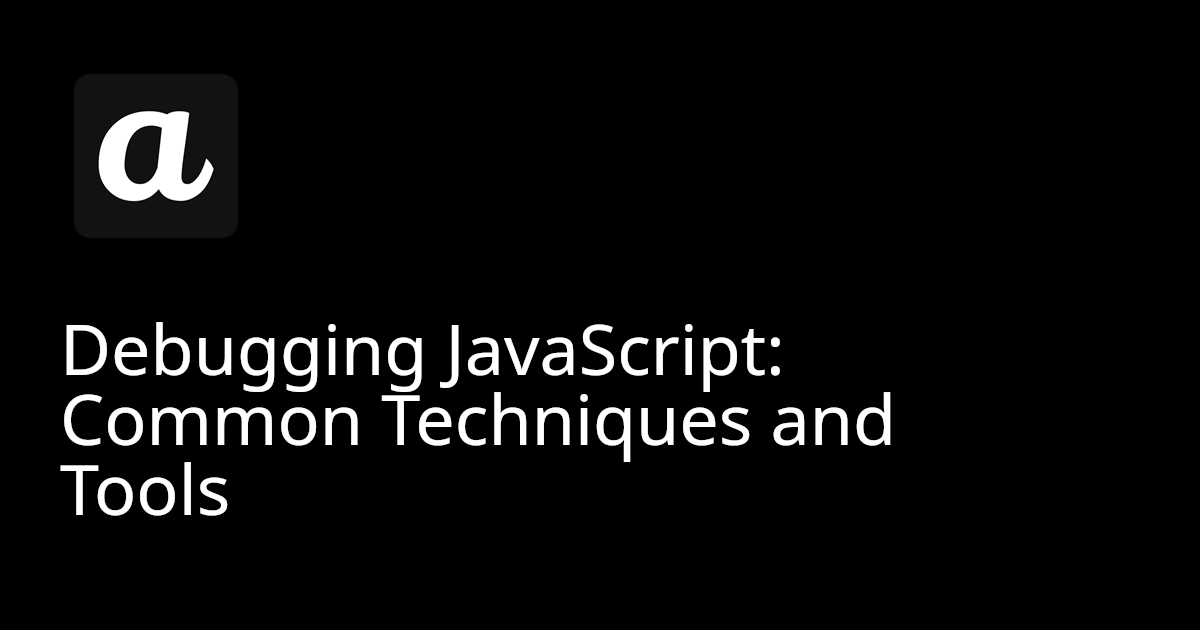
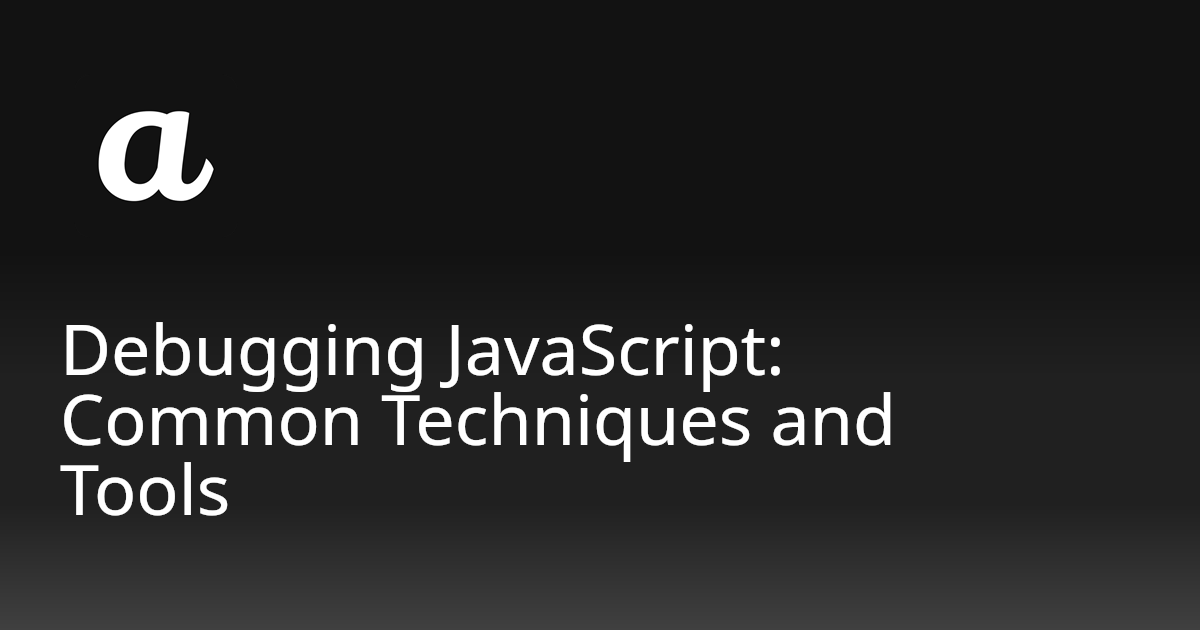
Fix: og image gradient color change

diff --git a/src/pages/open-graph/[...route].ts b/src/pages/open-graph/[...route].ts
@@ -16,7 +16,11 @@ export const { getStaticPaths, get } = OGImageRoute({
     title: page.frontmatter.title,
     bgGradient: [
       [18, 18, 18],
-      [9, 9, 9]
+      [18, 18, 18],
+      [18, 18, 18],
+      [32, 32, 32],
+      [32, 32, 32],
+      [64, 64, 64]
     ],
     logo: {
       path: './public/icons/android/android-launchericon-192-192.png'
